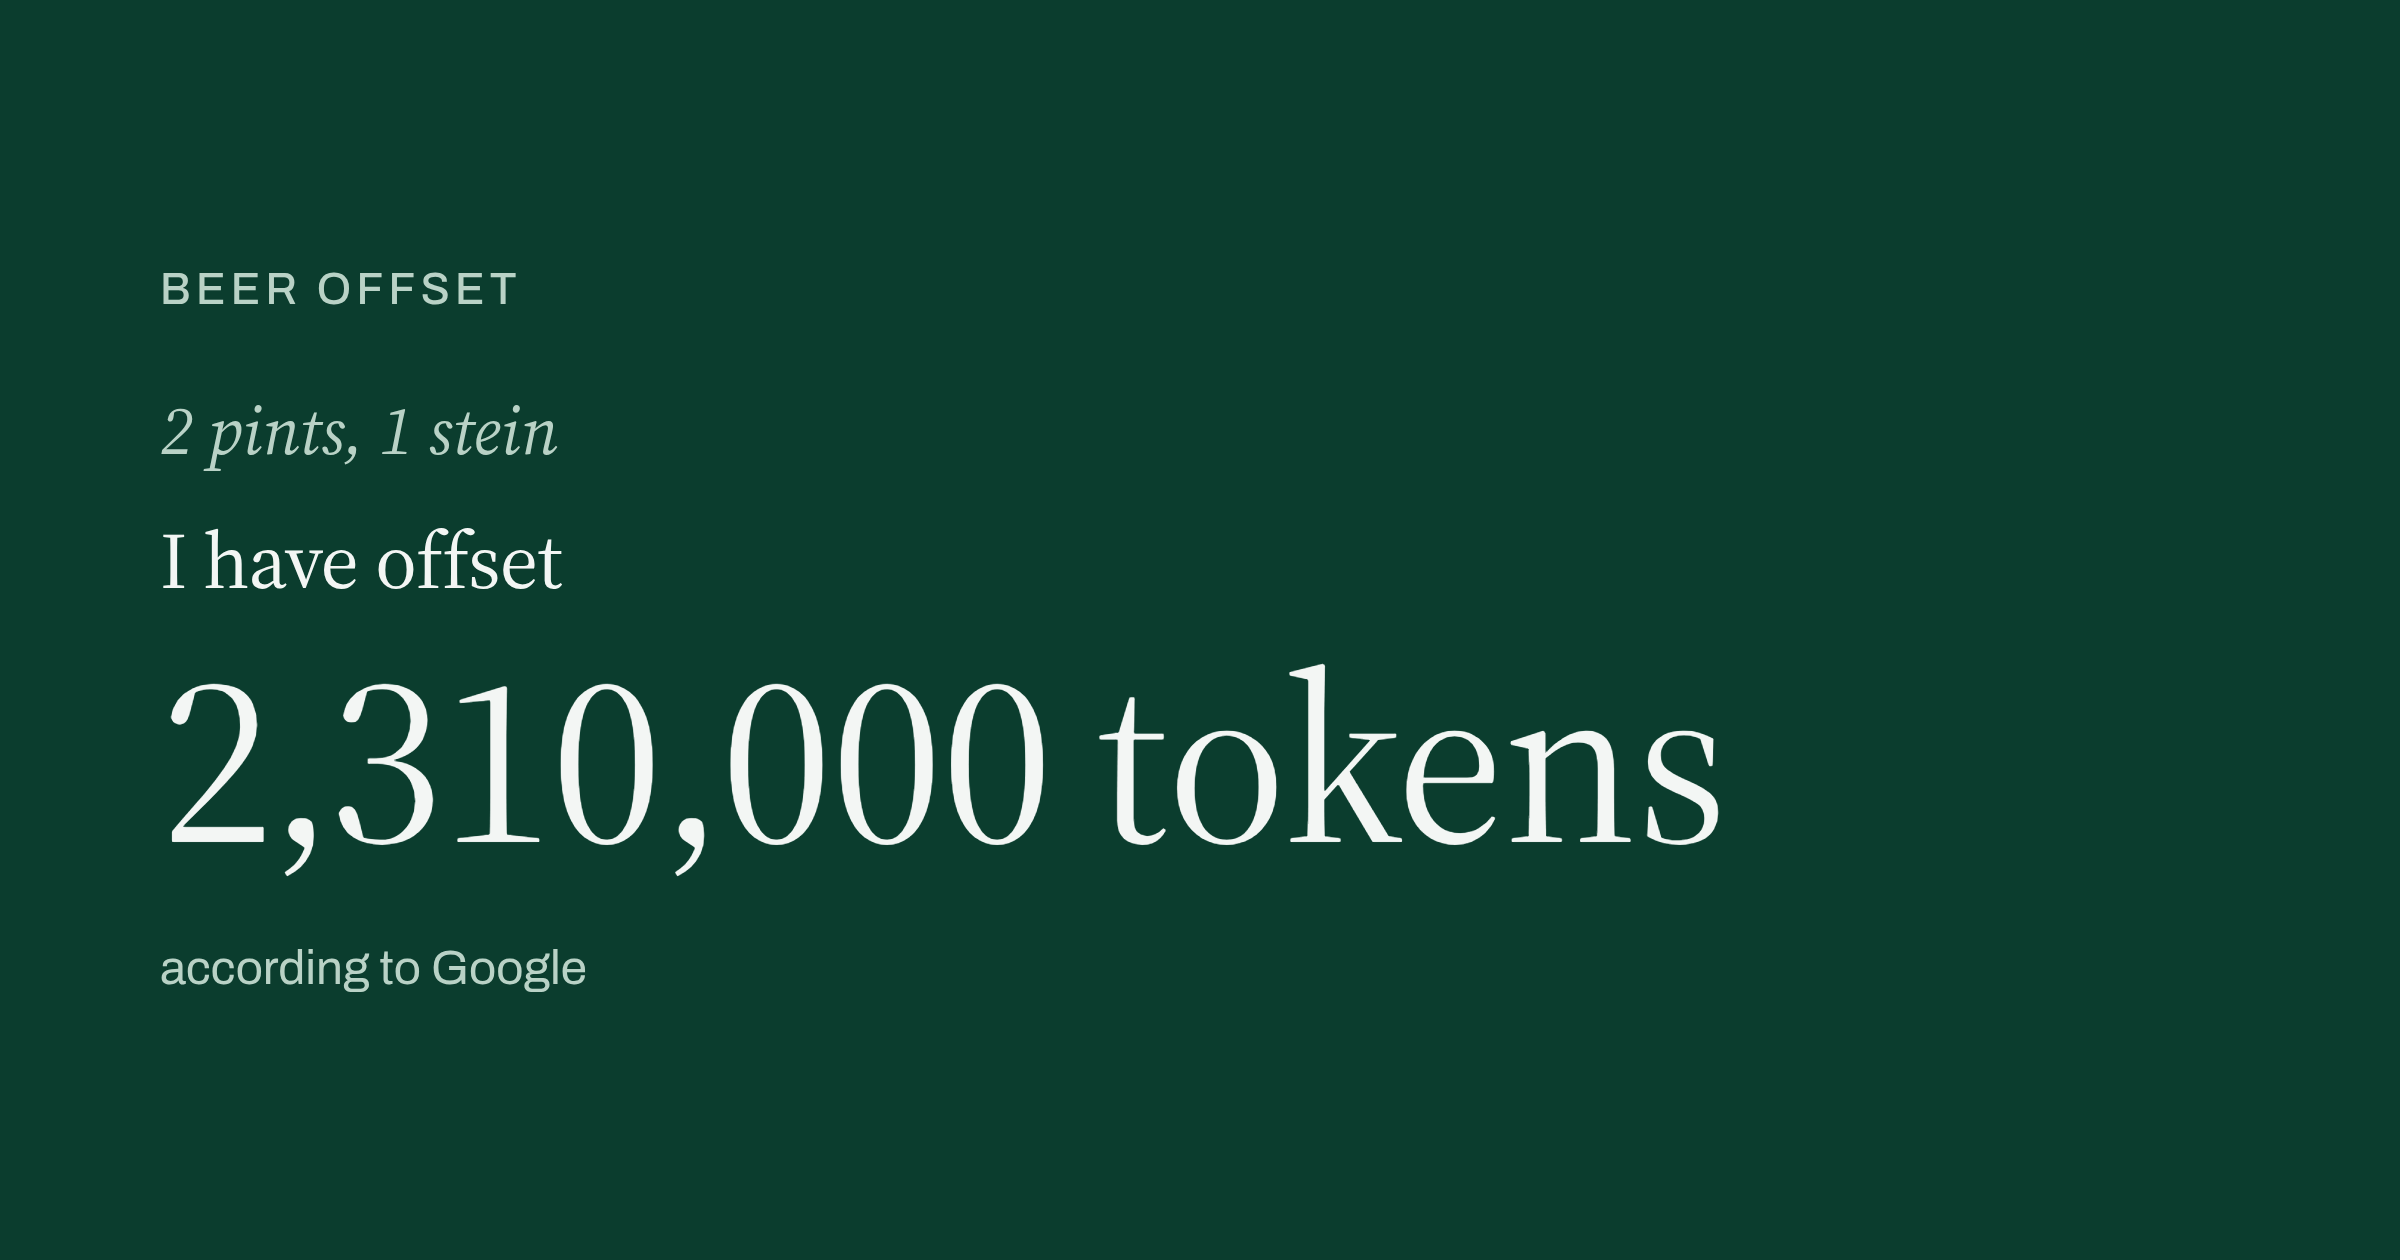
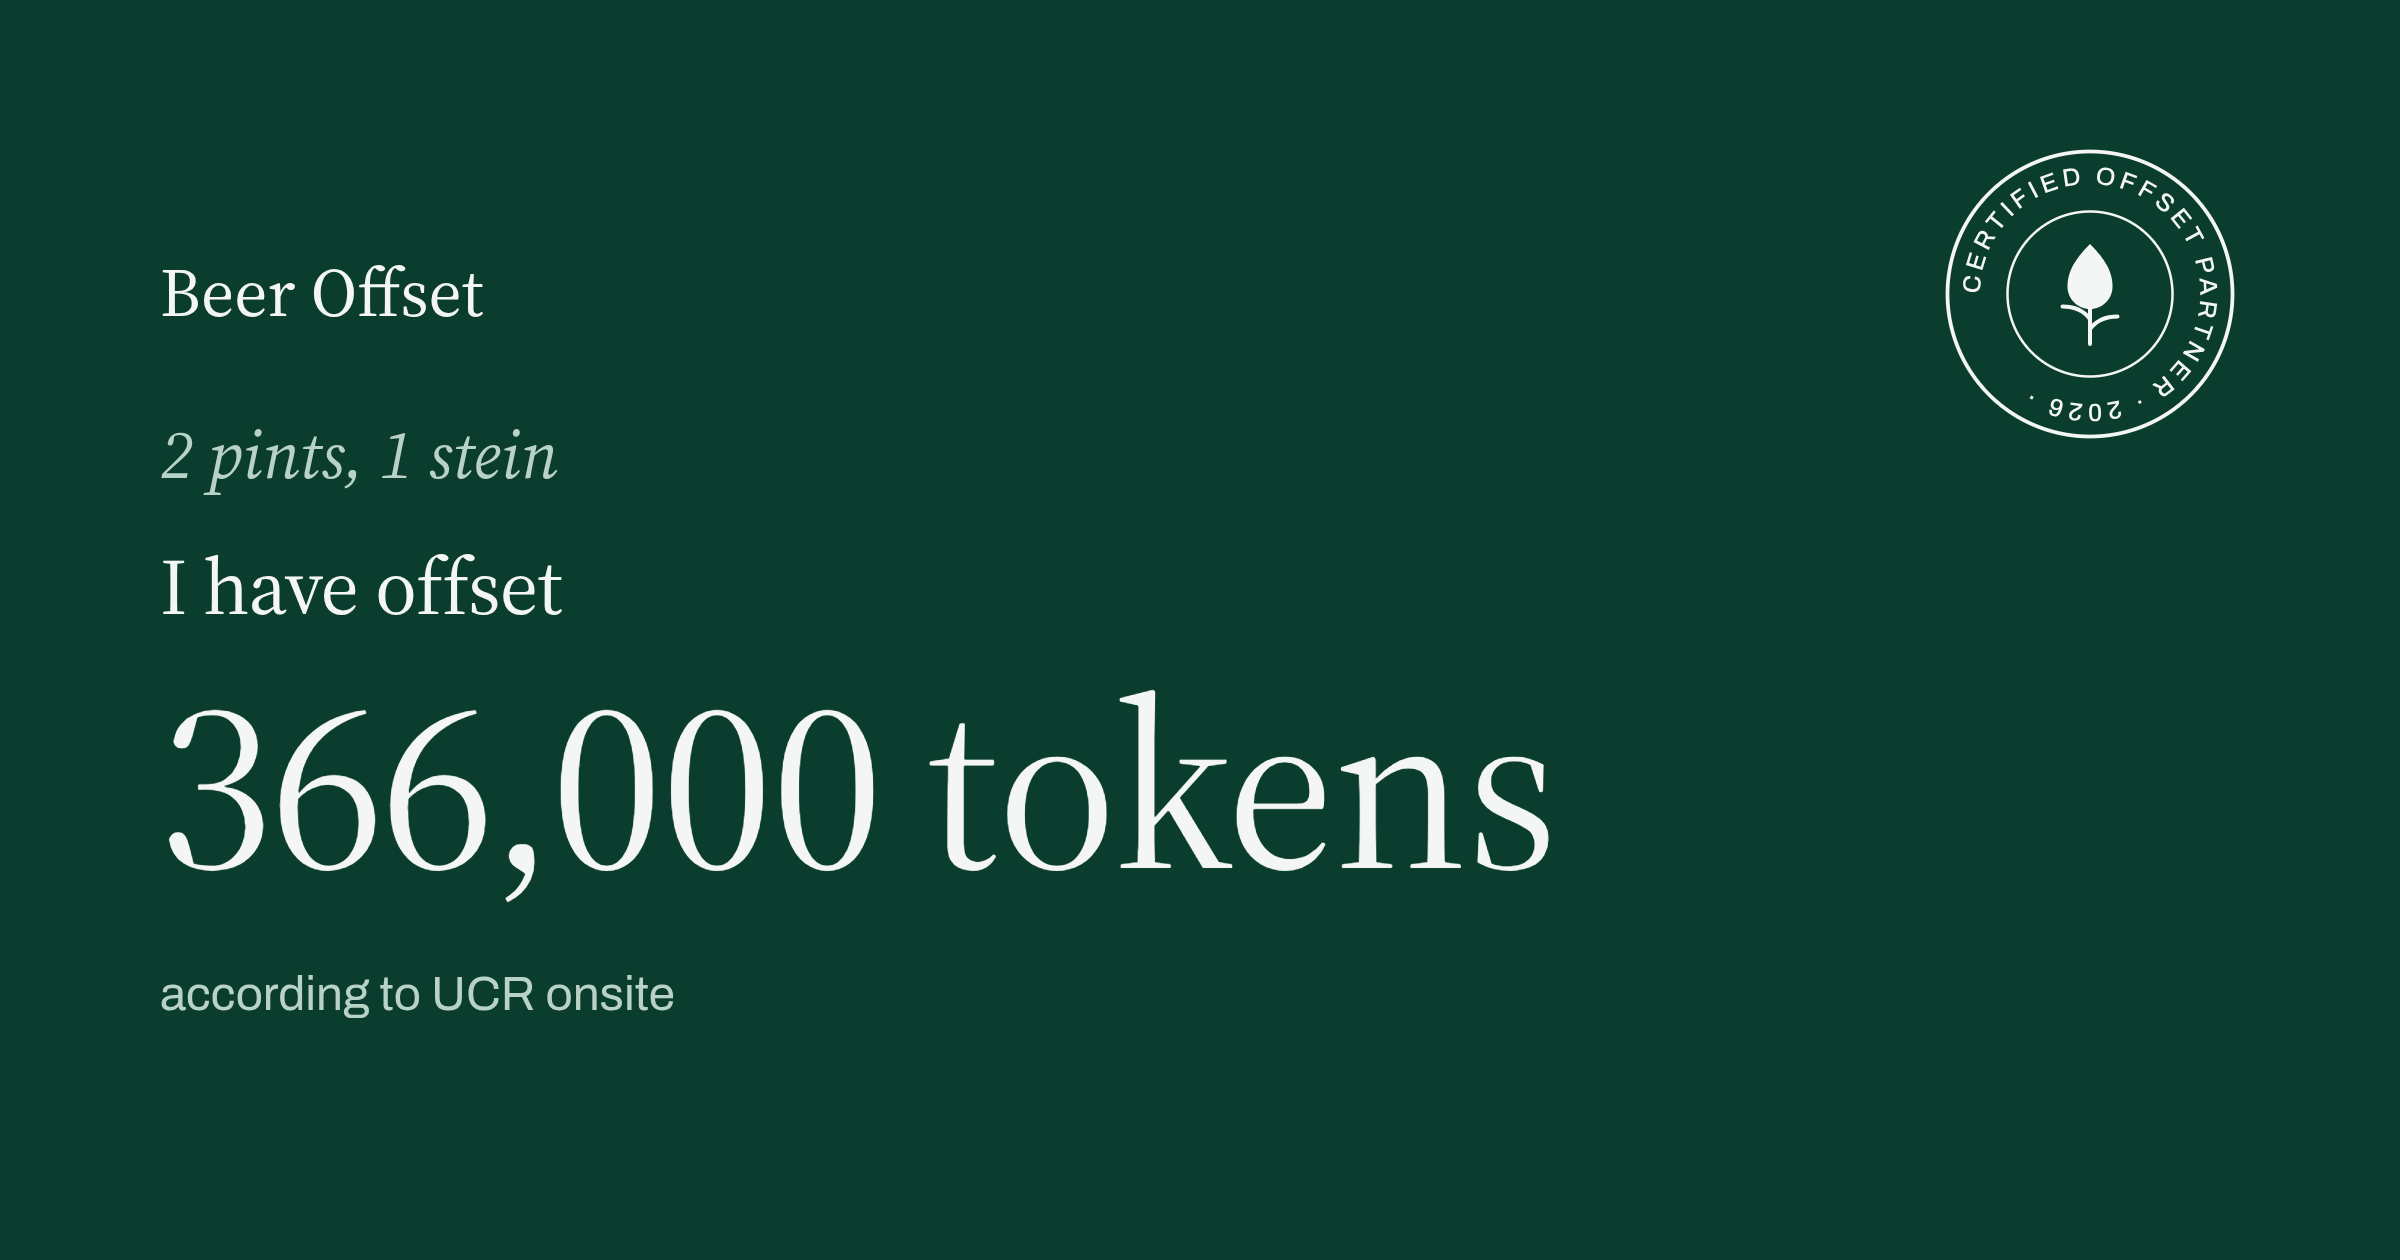
fix: keep badge lettering in the share card and mark the source link as pending

diff --git a/index.html b/index.html
@@ -28,7 +28,7 @@
           </defs>
           <circle cx="60" cy="60" r="57" fill="none" stroke="currentColor" stroke-width="1.5"/>
           <circle cx="60" cy="60" r="33" fill="none" stroke="currentColor" stroke-width="1"/>
-          <text class="badge-ring-text" font-size="10" letter-spacing="1.6">
+          <text class="badge-ring-text" font-size="10" letter-spacing="1.6" fill="currentColor" font-family="Archivo, 'Helvetica Neue', Arial, sans-serif" font-weight="500">
             <textPath href="#badge-ring" startOffset="0">CERTIFIED OFFSET PARTNER · 2026 ·</textPath>
           </text>
           <path d="M60 40c6 6 9 11 9 17a9 9 0 0 1-18 0c0-6 3-11 9-17z" fill="currentColor"/>
@@ -72,7 +72,7 @@
 
   <section class="hero" aria-live="polite" aria-labelledby="hero-h">
     <div class="wrap hero-grid">
-      <h2 id="hero-h" class="hero-heading">3. Net compute-water contribution</h2>
+      <h2 id="hero-h" class="hero-heading">3. Net compute&#8209;water contribution</h2>
       <div class="hero-glass">
         <canvas id="glass" width="300" height="420" aria-label="A beer glass showing your offset level"></canvas>
         <p class="caption caption-on-field">Figure 3. Thermal management capacity funded by the reporting entity.</p>
@@ -138,7 +138,7 @@
     <div class="wrap">
       <p class="colophon-meta">Prepared by nobody. Assured by no one. Printed on screens.</p>
       <p class="colophon-line">Beer Offset is not a registered offset program. Nothing is. Please also drink water.</p>
-      <p class="colophon-link"><a href="https://github.com/" id="repo-link">Source code</a> <span class="colophon-note">(repository link to follow)</span></p>
+      <p class="colophon-link" id="repo-link">Source code: repository link to follow.</p>
     </div>
   </footer>
 

diff --git a/src/styles.css b/src/styles.css
@@ -374,8 +374,7 @@ body.honest .bar-you .bar-fill { background: var(--red); }
 .colophon { background: var(--paper); border-top: 1px solid var(--rule); padding-block: 2.5rem 3rem; }
 .colophon-meta { font-size: .85rem; color: var(--ink-2); }
 .colophon-line { font-family: var(--serif); font-style: italic; font-size: clamp(1.2rem, 1rem + 1vw, 1.6rem); color: var(--green); max-width: 40ch; }
-.colophon-link { font-size: .9rem; margin: 0; }
-.colophon-note { color: var(--ink-2); }
+.colophon-link { font-size: .9rem; margin: 0; color: var(--ink-2); }
 
 /* Share card, rendered off-screen at 1200x630 */
 .card {
